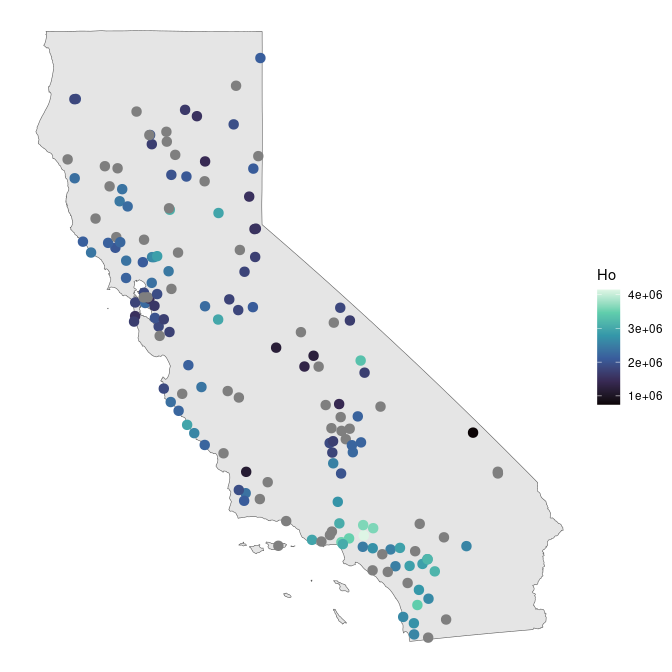
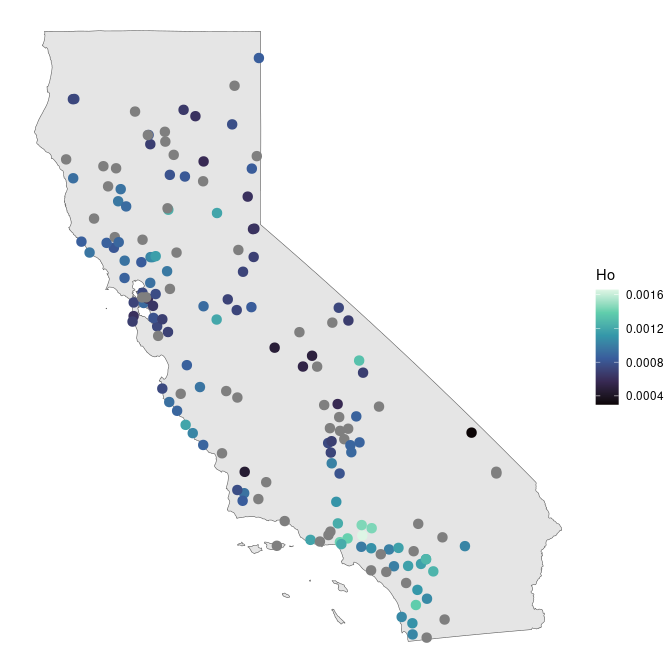
update gendiv

diff --git a/analysis/genetic_diversity/genetic_diversity.md b/analysis/genetic_diversity/genetic_diversity.md
@@ -24,6 +24,18 @@ ggplot() +
 ![](genetic_diversity_files/figure-gfm/heterozygosity-1.png)<!-- -->
 
 ``` r
+ggplot(coords) +
+ geom_sf() +
+ geom_raster(data = dem, aes(x = x, y = y, fill = elev)) + 
+ geom_sf(aes(geometry = geometry, col = Ho), pch = 16, cex = 2.5) +
+ scale_color_viridis_c(option = "mako", labels = scales::label_number(scale = 1, accuracy = 0.001)) +
+ scale_fill_gradient(low = "black", high = "white", na.value = NA) +
+ theme_void()
+```
+
+![](genetic_diversity_files/figure-gfm/heterozygosity-2.png)<!-- -->
+
+``` r
 coords_proj <- st_transform(coords, 3310)
 ca_proj <- st_transform(ca, 3310)
 lyr <- coords_to_raster(coords_proj, buffer = 1, res = 10000)
@@ -38,7 +50,6 @@ ggplot_gd(mask_Ho, bkg = ca_proj, col = magma(100))
 
 ``` r
 roh_df <- get_roh()
-dem <- get_dem()
 
 ggplot(roh_df) +
  geom_sf(data = ca) +
@@ -87,202 +98,285 @@ ggplot(roh_df) +
 envdata <- get_env()
 mod_df <- 
   left_join(roh_df, envdata) %>%
-  st_drop_geometry() 
+  left_join(het) %>%
+  st_drop_geometry() %>%
+  mutate(froh0_log = log(froh0 + 1)) %>%
+  drop_na(froh0, Ho, elevation)
 
+mod_div <- lm(froh0_log ~ Ho + elevation, data = mod_df)
+summary(mod_div)
+```
+
+    ## 
+    ## Call:
+    ## lm(formula = froh0_log ~ Ho + elevation, data = mod_df)
+    ## 
+    ## Residuals:
+    ##       Min        1Q    Median        3Q       Max 
+    ## -0.019276 -0.007431 -0.002658  0.002583  0.069339 
+    ## 
+    ## Coefficients:
+    ##               Estimate Std. Error t value Pr(>|t|)    
+    ## (Intercept)  3.913e-02  5.184e-03   7.548 1.68e-11 ***
+    ## Ho          -3.788e+01  5.228e+00  -7.245 7.55e-11 ***
+    ## elevation    6.513e-06  1.876e-06   3.471 0.000753 ***
+    ## ---
+    ## Signif. codes:  0 '***' 0.001 '**' 0.01 '*' 0.05 '.' 0.1 ' ' 1
+    ## 
+    ## Residual standard error: 0.01309 on 105 degrees of freedom
+    ## Multiple R-squared:  0.4128, Adjusted R-squared:  0.4017 
+    ## F-statistic: 36.91 on 2 and 105 DF,  p-value: 7.239e-13
+
+``` r
+plot(mod_div)
+```
+
+![](genetic_diversity_files/figure-gfm/models-1.png)<!-- -->![](genetic_diversity_files/figure-gfm/models-2.png)<!-- -->![](genetic_diversity_files/figure-gfm/models-3.png)<!-- -->![](genetic_diversity_files/figure-gfm/models-4.png)<!-- -->
+
+``` r
+mod_df$fitted <- mod_div$fitted.values
+ggplot(mod_df) +
+  geom_point(aes(x = Ho, y = froh0_log, col = pop)) +
+  theme_classic()
+```
+
+![](genetic_diversity_files/figure-gfm/models-5.png)<!-- -->
+
+``` r
+ggplot(mod_df) +
+  geom_point(aes(x = fitted, y = froh0_log, col = pop)) +
+  theme_classic()
+```
+
+![](genetic_diversity_files/figure-gfm/models-6.png)<!-- -->
+
+``` r
 # Climate model:
-mod_clim <- lm(froh0 ~ CA_rPCA1 + CA_rPCA2 + CA_rPCA3, data = mod_df)
+mod_clim <- lm(froh0_log ~ CA_rPCA1 + CA_rPCA2 + CA_rPCA3, data = mod_df)
 summary(mod_clim)
 ```
 
     ## 
     ## Call:
-    ## lm(formula = froh0 ~ CA_rPCA1 + CA_rPCA2 + CA_rPCA3, data = mod_df)
+    ## lm(formula = froh0_log ~ CA_rPCA1 + CA_rPCA2 + CA_rPCA3, data = mod_df)
     ## 
     ## Residuals:
     ##       Min        1Q    Median        3Q       Max 
-    ## -0.024613 -0.006506 -0.003416 -0.000737  0.091316 
+    ## -0.020546 -0.006838 -0.003465  0.000223  0.088863 
     ## 
     ## Coefficients:
-    ##               Estimate Std. Error t value Pr(>|t|)    
-    ## (Intercept)  0.0124348  0.0020489   6.069 2.21e-08 ***
-    ## CA_rPCA1    -0.0016348  0.0009055  -1.805 0.073972 .  
-    ## CA_rPCA2    -0.0028828  0.0007569  -3.808 0.000239 ***
-    ## CA_rPCA3    -0.0018577  0.0010765  -1.726 0.087439 .  
+    ##              Estimate Std. Error t value Pr(>|t|)    
+    ## (Intercept)  0.015490   0.002455   6.310 6.95e-09 ***
+    ## CA_rPCA1     0.003170   0.001438   2.204   0.0297 *  
+    ## CA_rPCA2    -0.004012   0.001556  -2.578   0.0113 *  
+    ## CA_rPCA3     0.001473   0.002084   0.707   0.4813    
     ## ---
     ## Signif. codes:  0 '***' 0.001 '**' 0.01 '*' 0.05 '.' 0.1 ' ' 1
     ## 
-    ## Residual standard error: 0.01665 on 102 degrees of freedom
-    ##   (5 observations deleted due to missingness)
-    ## Multiple R-squared:  0.1553, Adjusted R-squared:  0.1304 
-    ## F-statistic:  6.25 on 3 and 102 DF,  p-value: 0.0006144
+    ## Residual standard error: 0.01582 on 104 degrees of freedom
+    ## Multiple R-squared:  0.1504, Adjusted R-squared:  0.1259 
+    ## F-statistic: 6.138 on 3 and 104 DF,  p-value: 0.0006958
 
 ``` r
-mod_clim2 <- lm(froh0 ~ CA_rPCA2 , data = mod_df)
+mod_clim2 <- lm(froh0_log ~ CA_rPCA2 , data = mod_df)
 summary(mod_clim2)
 ```
 
     ## 
     ## Call:
-    ## lm(formula = froh0 ~ CA_rPCA2, data = mod_df)
+    ## lm(formula = froh0_log ~ CA_rPCA2, data = mod_df)
     ## 
     ## Residuals:
     ##       Min        1Q    Median        3Q       Max 
-    ## -0.021028 -0.009425 -0.003462  0.000690  0.090924 
+    ## -0.019130 -0.008127 -0.004146  0.000837  0.085373 
     ## 
     ## Coefficients:
-    ##               Estimate Std. Error t value Pr(>|t|)    
-    ## (Intercept)  0.0137804  0.0019782   6.966 3.05e-10 ***
-    ## CA_rPCA2    -0.0024537  0.0006849  -3.583 0.000519 ***
+    ##              Estimate Std. Error t value Pr(>|t|)    
+    ## (Intercept)  0.015473   0.002530   6.117 1.63e-08 ***
+    ## CA_rPCA2    -0.004728   0.001566  -3.019  0.00317 ** 
     ## ---
     ## Signif. codes:  0 '***' 0.001 '**' 0.01 '*' 0.05 '.' 0.1 ' ' 1
     ## 
-    ## Residual standard error: 0.01692 on 104 degrees of freedom
-    ##   (5 observations deleted due to missingness)
-    ## Multiple R-squared:  0.1099, Adjusted R-squared:  0.1013 
-    ## F-statistic: 12.84 on 1 and 104 DF,  p-value: 0.0005192
+    ## Residual standard error: 0.01631 on 106 degrees of freedom
+    ## Multiple R-squared:  0.0792, Adjusted R-squared:  0.07051 
+    ## F-statistic: 9.117 on 1 and 106 DF,  p-value: 0.003173
 
 ``` r
 # Elevation model:
-mod_elev <- lm(froh0 ~ elevation, data = mod_df)
+mod_elev <- lm(froh0_log ~ elevation, data = mod_df)
 summary(mod_elev)
 ```
 
     ## 
     ## Call:
-    ## lm(formula = froh0 ~ elevation, data = mod_df)
+    ## lm(formula = froh0_log ~ elevation, data = mod_df)
     ## 
     ## Residuals:
     ##       Min        1Q    Median        3Q       Max 
-    ## -0.019146 -0.007176 -0.003883 -0.000020  0.096116 
+    ## -0.018953 -0.006747 -0.003362  0.000449  0.090519 
     ## 
     ## Coefficients:
     ##              Estimate Std. Error t value Pr(>|t|)    
-    ## (Intercept) 4.328e-03  2.211e-03   1.957 0.052848 .  
-    ## elevation   8.389e-06  2.358e-06   3.558 0.000555 ***
+    ## (Intercept) 3.803e-03  2.145e-03   1.773 0.079147 .  
+    ## elevation   8.567e-06  2.261e-06   3.790 0.000251 ***
     ## ---
     ## Signif. codes:  0 '***' 0.001 '**' 0.01 '*' 0.05 '.' 0.1 ' ' 1
     ## 
-    ## Residual standard error: 0.01674 on 109 degrees of freedom
-    ## Multiple R-squared:  0.104,  Adjusted R-squared:  0.09582 
-    ## F-statistic: 12.66 on 1 and 109 DF,  p-value: 0.0005553
+    ## Residual standard error: 0.01595 on 106 degrees of freedom
+    ## Multiple R-squared:  0.1193, Adjusted R-squared:  0.111 
+    ## F-statistic: 14.36 on 1 and 106 DF,  p-value: 0.0002508
 
 ``` r
 # Elevation and CA_rPCA2 are correlated
 mat <- as.matrix(drop_na(mod_df[,c("CA_rPCA1", "CA_rPCA2", "CA_rPCA3", "elevation")]))
-mod_clim_elev <- lm(froh0 ~ CA_rPCA1 + elevation + CA_rPCA3, data = mod_df)
+mod_clim_elev <- lm(froh0_log ~ CA_rPCA1 + elevation + CA_rPCA3, data = mod_df)
 summary(mod_clim_elev)
 ```
 
     ## 
     ## Call:
-    ## lm(formula = froh0 ~ CA_rPCA1 + elevation + CA_rPCA3, data = mod_df)
+    ## lm(formula = froh0_log ~ CA_rPCA1 + elevation + CA_rPCA3, data = mod_df)
     ## 
     ## Residuals:
     ##       Min        1Q    Median        3Q       Max 
-    ## -0.019777 -0.006584 -0.003581 -0.000530  0.096657 
+    ## -0.018320 -0.006162 -0.003565 -0.000843  0.093961 
     ## 
     ## Coefficients:
-    ##               Estimate Std. Error t value Pr(>|t|)   
-    ## (Intercept)  3.143e-03  2.651e-03   1.186  0.23857   
-    ## CA_rPCA1    -3.795e-04  1.042e-03  -0.364  0.71651   
-    ## elevation    8.782e-06  2.887e-06   3.042  0.00299 **
-    ## CA_rPCA3    -7.749e-04  1.017e-03  -0.762  0.44801   
+    ##               Estimate Std. Error t value Pr(>|t|)  
+    ## (Intercept)  5.370e-03  3.030e-03   1.772   0.0793 .
+    ## CA_rPCA1     1.930e-03  1.580e-03   1.222   0.2246  
+    ## elevation    6.657e-06  3.206e-06   2.076   0.0403 *
+    ## CA_rPCA3    -5.826e-05  2.403e-03  -0.024   0.9807  
     ## ---
     ## Signif. codes:  0 '***' 0.001 '**' 0.01 '*' 0.05 '.' 0.1 ' ' 1
     ## 
-    ## Residual standard error: 0.01703 on 102 degrees of freedom
-    ##   (5 observations deleted due to missingness)
-    ## Multiple R-squared:  0.1154, Adjusted R-squared:  0.08941 
-    ## F-statistic: 4.436 on 3 and 102 DF,  p-value: 0.005664
+    ## Residual standard error: 0.01599 on 104 degrees of freedom
+    ## Multiple R-squared:  0.1321, Adjusted R-squared:  0.1071 
+    ## F-statistic: 5.277 on 3 and 104 DF,  p-value: 0.001992
 
 ``` r
 # Development and imperviousness model
-mod_imperv <- lm(froh0 ~ nlcd_imperviousness, data = mod_df)
+mod_imperv <- lm(froh0_log ~ nlcd_imperviousness + elevation, data = mod_df)
 summary(mod_imperv)
 ```
 
     ## 
     ## Call:
-    ## lm(formula = froh0 ~ nlcd_imperviousness, data = mod_df)
+    ## lm(formula = froh0_log ~ nlcd_imperviousness + elevation, data = mod_df)
     ## 
     ## Residuals:
     ##       Min        1Q    Median        3Q       Max 
-    ## -0.010941 -0.009505 -0.006339  0.000011  0.101348 
+    ## -0.017362 -0.007030 -0.003727  0.001107  0.090355 
     ## 
     ## Coefficients:
     ##                       Estimate Std. Error t value Pr(>|t|)    
-    ## (Intercept)          1.094e-02  1.818e-03   6.017 2.42e-08 ***
-    ## nlcd_imperviousness -1.375e-04  8.946e-05  -1.537    0.127    
+    ## (Intercept)          4.457e-03  2.408e-03   1.851 0.066950 .  
+    ## nlcd_imperviousness -5.162e-05  8.525e-05  -0.605 0.546155    
+    ## elevation            8.220e-06  2.339e-06   3.515 0.000651 ***
     ## ---
     ## Signif. codes:  0 '***' 0.001 '**' 0.01 '*' 0.05 '.' 0.1 ' ' 1
     ## 
-    ## Residual standard error: 0.01749 on 109 degrees of freedom
-    ## Multiple R-squared:  0.02121,    Adjusted R-squared:  0.01223 
-    ## F-statistic: 2.362 on 1 and 109 DF,  p-value: 0.1272
+    ## Residual standard error: 0.016 on 105 degrees of freedom
+    ## Multiple R-squared:  0.1224, Adjusted R-squared:  0.1057 
+    ## F-statistic: 7.321 on 2 and 105 DF,  p-value: 0.001055
 
 ``` r
-mod_devel <- lm(froh0 ~ LF_evh_developed_bin, data = mod_df)
+mod_devel <- lm(froh0_log ~ developed + elevation, data = mod_df)
 summary(mod_devel)
 ```
 
     ## 
     ## Call:
-    ## lm(formula = froh0 ~ LF_evh_developed_bin, data = mod_df)
+    ## lm(formula = froh0_log ~ developed + elevation, data = mod_df)
     ## 
     ## Residuals:
     ##       Min        1Q    Median        3Q       Max 
-    ## -0.010497 -0.009021 -0.006613 -0.000106  0.104204 
+    ## -0.022558 -0.006478 -0.000836  0.006047  0.051081 
     ## 
     ## Coefficients:
-    ##                           Estimate Std. Error t value Pr(>|t|)    
-    ## (Intercept)               0.010497   0.001985   5.287 6.45e-07 ***
-    ## LF_evh_developed_binTRUE -0.002413   0.003698  -0.652    0.515    
+    ##                                              Estimate Std. Error t value
+    ## (Intercept)                                 1.490e-02  6.303e-03   2.364
+    ## developedDeveloped - Medium Intensity      -1.359e-02  1.043e-02  -1.303
+    ## developedDeveloped-Roads                   -1.428e-02  1.035e-02  -1.379
+    ## developedDeveloped-Upland Deciduous Forest -1.950e-02  1.333e-02  -1.463
+    ## developedDeveloped-Upland Evergreen Forest -3.955e-02  1.466e-02  -2.698
+    ## developedDeveloped-Upland Herbaceous       -3.172e-02  1.183e-02  -2.682
+    ## developedDeveloped-Upland Mixed Forest     -1.731e-02  1.327e-02  -1.305
+    ## developedDeveloped-Upland Shrubland        -1.379e-02  9.120e-03  -1.512
+    ## elevation                                   2.864e-05  8.784e-06   3.260
+    ##                                            Pr(>|t|)   
+    ## (Intercept)                                 0.02732 * 
+    ## developedDeveloped - Medium Intensity       0.20616   
+    ## developedDeveloped-Roads                    0.18183   
+    ## developedDeveloped-Upland Deciduous Forest  0.15762   
+    ## developedDeveloped-Upland Evergreen Forest  0.01312 * 
+    ## developedDeveloped-Upland Herbaceous        0.01361 * 
+    ## developedDeveloped-Upland Mixed Forest      0.20553   
+    ## developedDeveloped-Upland Shrubland         0.14466   
+    ## elevation                                   0.00358 **
     ## ---
     ## Signif. codes:  0 '***' 0.001 '**' 0.01 '*' 0.05 '.' 0.1 ' ' 1
     ## 
-    ## Residual standard error: 0.01765 on 109 degrees of freedom
-    ## Multiple R-squared:  0.00389,    Adjusted R-squared:  -0.005248 
-    ## F-statistic: 0.4257 on 1 and 109 DF,  p-value: 0.5155
+    ## Residual standard error: 0.01676 on 22 degrees of freedom
+    ##   (77 observations deleted due to missingness)
+    ## Multiple R-squared:  0.4518, Adjusted R-squared:  0.2524 
+    ## F-statistic: 2.266 on 8 and 22 DF,  p-value: 0.06158
 
 ``` r
 # Comparison of AIC suggests that elevation alone is the best model
 AIC(mod_clim_elev)
 ```
 
-    ## [1] -556.6455
+    ## [1] -580.928
 
 ``` r
 AIC(mod_clim)
 ```
 
-    ## [1] -561.533
+    ## [1] -583.2315
 
 ``` r
 AIC(mod_elev)
 ```
 
-    ## [1] -589.0453
+    ## [1] -583.3494
 
 ``` r
 AIC(mod_clim2)
 ```
 
-    ## [1] -559.9809
+    ## [1] -578.5379
 
 ``` r
 # plot of elevation vs roh
 # doesn't seem suggestive of a strong relationship
 ggplot(mod_df) +
-  geom_point(aes(x = elevation, y = froh0, col = pop)) +
+  geom_point(aes(x = elevation, y = froh0_log, col = pop)) +
   theme_classic()
 ```
 
-![](genetic_diversity_files/figure-gfm/models-1.png)<!-- -->
+![](genetic_diversity_files/figure-gfm/models-7.png)<!-- -->
 
 ``` r
 ggplot(mod_df) +
-  geom_point(aes(x = CA_rPCA2, y = froh0, col = pop)) +
+  geom_point(aes(x = CA_rPCA2, y = froh0_log, col = pop)) +
   theme_classic()
 ```
 
-![](genetic_diversity_files/figure-gfm/models-2.png)<!-- -->
+![](genetic_diversity_files/figure-gfm/models-8.png)<!-- -->
+
+``` r
+ggplot(mod_df) +
+  geom_point(aes(x = CA_rPCA1, y = froh0_log, col = pop)) +
+  theme_classic()
+```
+
+![](genetic_diversity_files/figure-gfm/models-9.png)<!-- -->
+
+``` r
+ggplot(mod_df) +
+  geom_point(aes(x = CA_rPCA3, y = froh0_log, col = pop)) +
+  theme_classic()
+```
+
+![](genetic_diversity_files/figure-gfm/models-10.png)<!-- -->